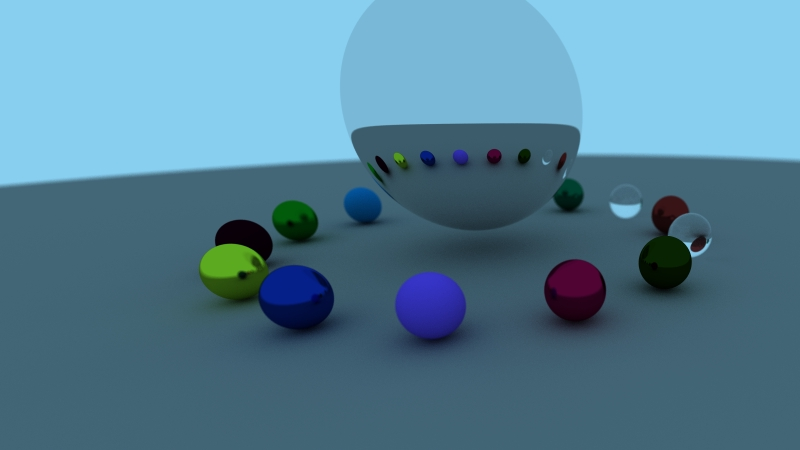
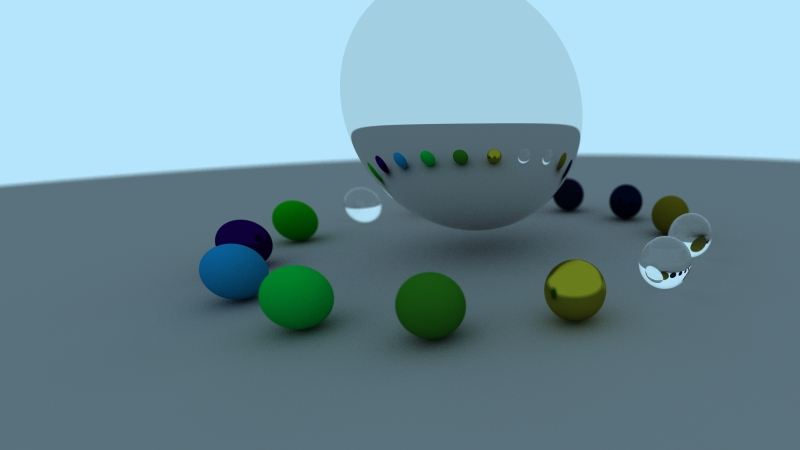
Rerender screenshots

diff --git a/internal/camera.go b/internal/camera.go
@@ -9,7 +9,7 @@ import (
 )
 
 const (
-	SAMPLES_PER_PIXEL = 50
+	SAMPLES_PER_PIXEL = 600
 	SAMPLE_SCALE      = 1.0 / SAMPLES_PER_PIXEL
 	MAX_DEPTH         = 500
 )
@@ -172,7 +172,7 @@ func (c *Camera) rayColor(ray *Ray, depth int, world *HittableList) Color {
 	}
 
 	// Sky
-	return C(0.53, 0.81, 0.94)
+	return C(182.0/255.0, 230.0/255.0, 252.0/255.0)
 }
 
 // defocusDiskSample returns a random point in the camera defocus disk

diff --git a/internal/scenes/part1.go b/internal/scenes/part1.go
@@ -49,7 +49,7 @@ func LoadPart1FinalRender() (Camera, *HittableList) {
 		NewVec3(13, 1.5, 3),
 		NewVec3(0, -2, 0),
 		NewVec3(0, 1, 0),
-		0.3,
+		0.15,
 		8.0,
 	)
 
